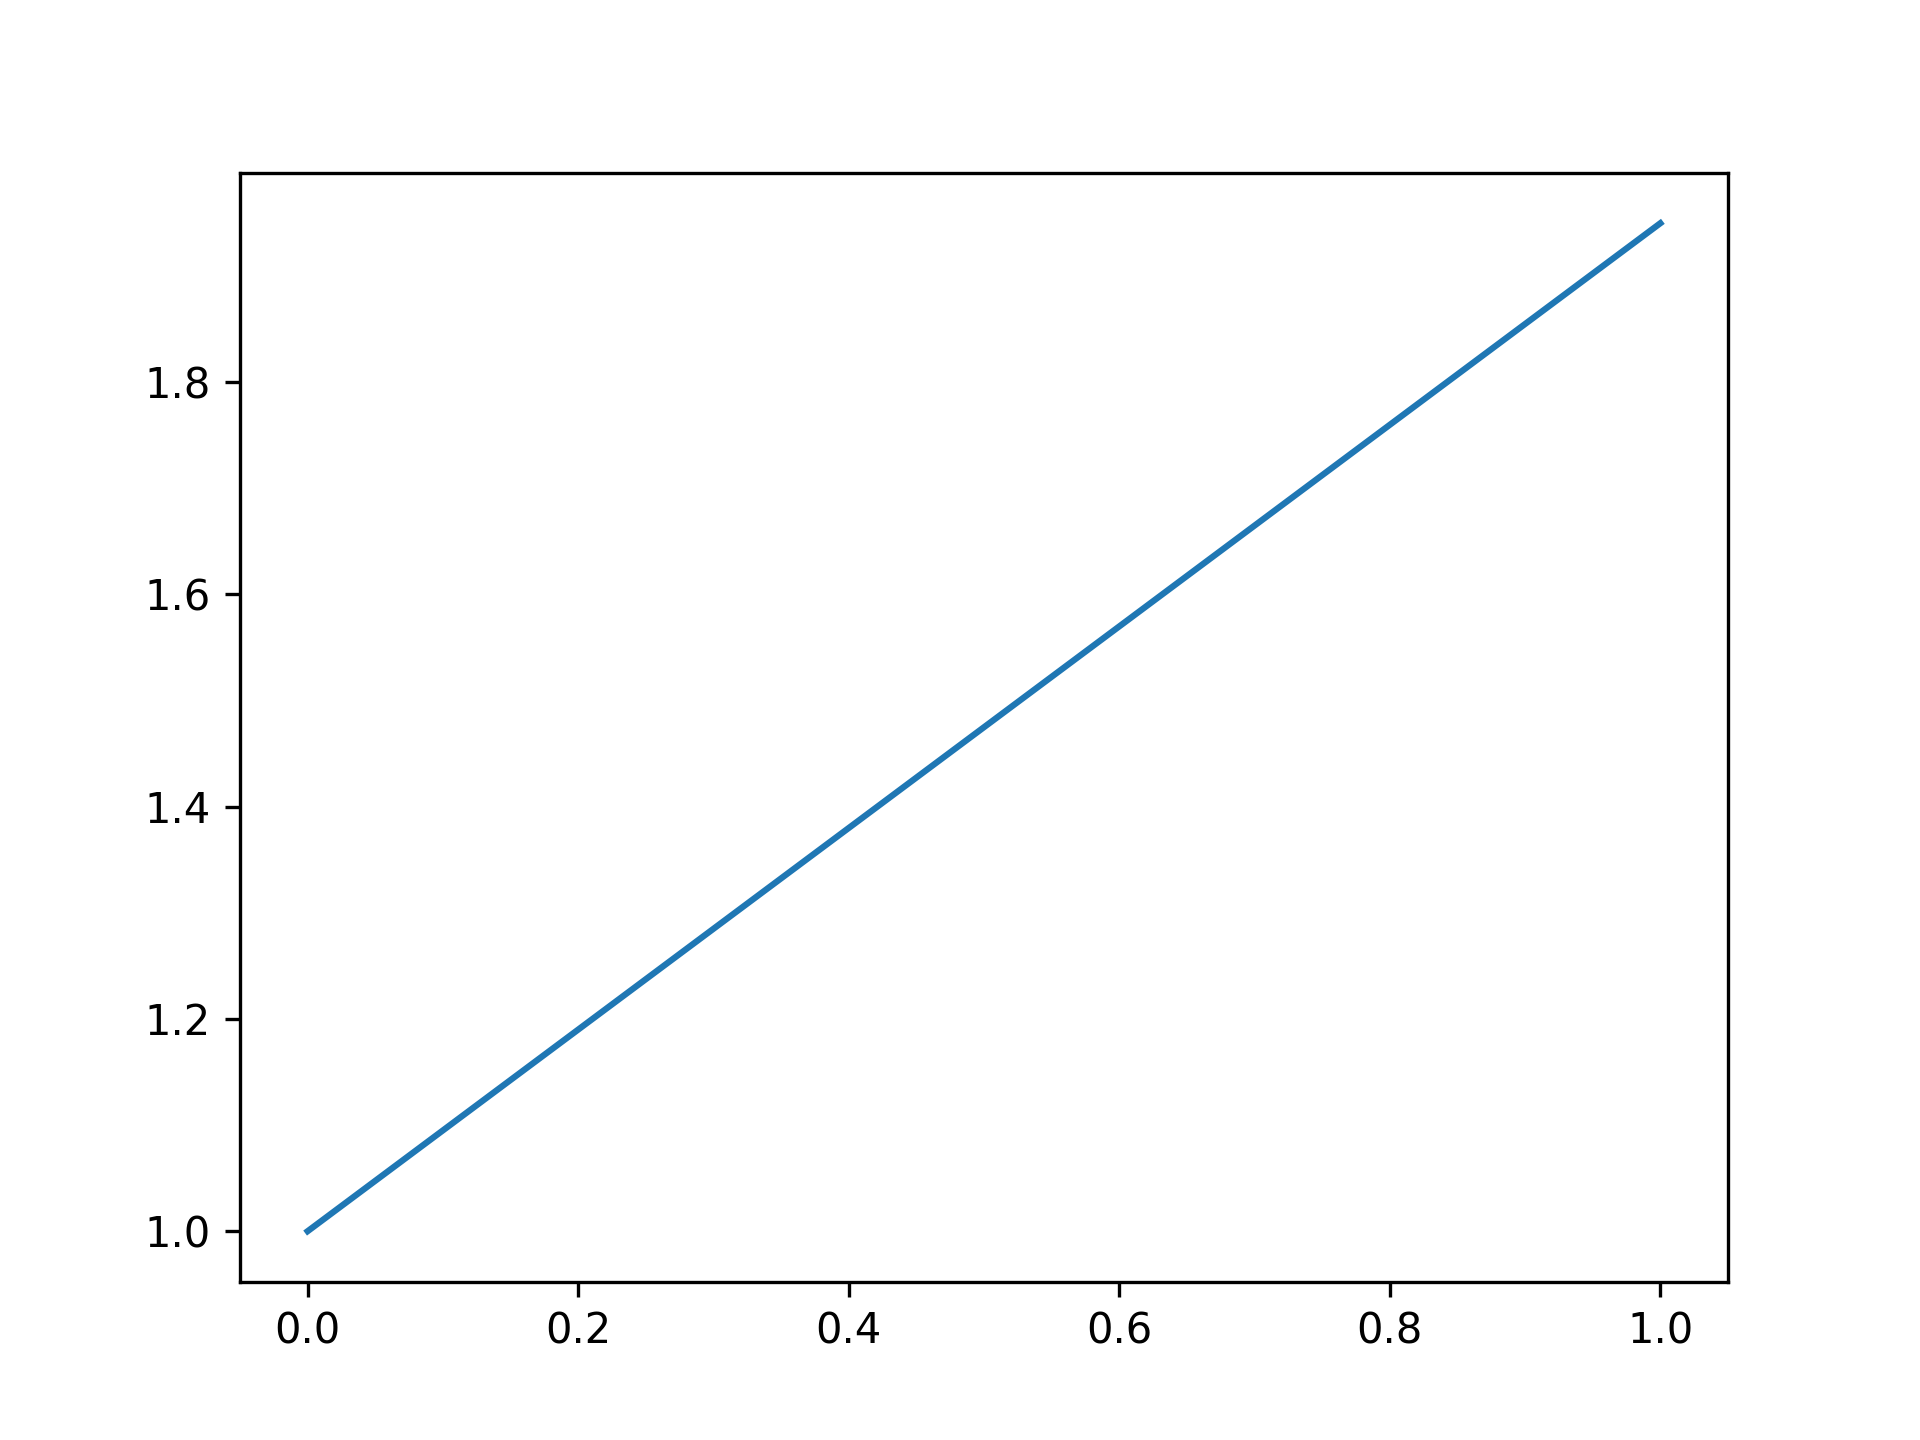
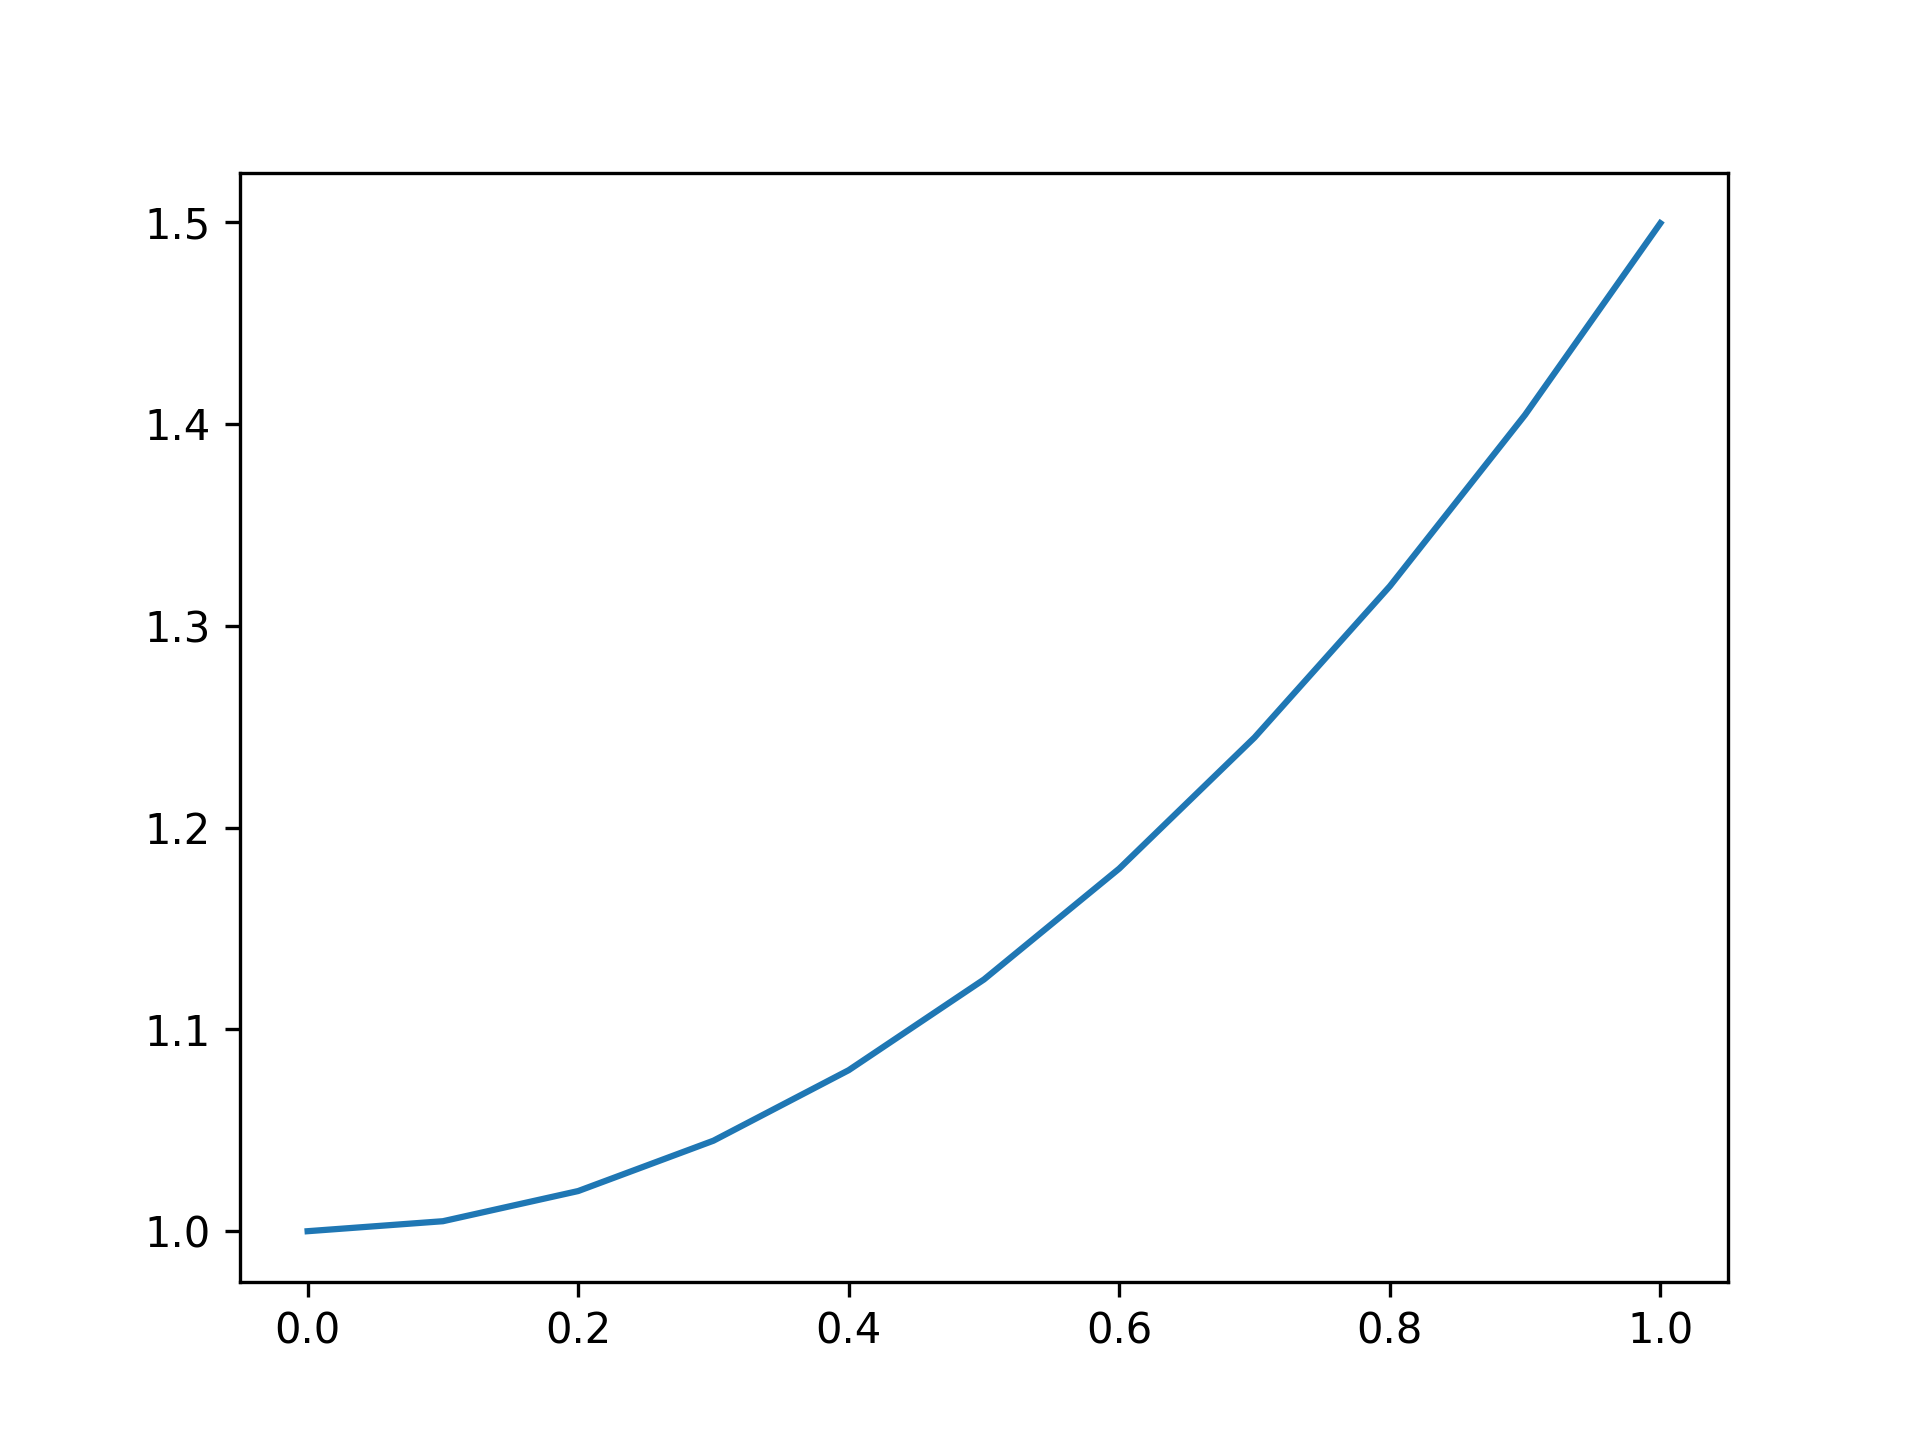
Jaxification

diff --git a/sde_solver.py b/sde_solver.py
@@ -1,10 +1,15 @@
+import jax
+import jax.numpy as jnp
+import matplotlib.pyplot as plt
 import numpy as np
 from jax import grad
+
 from euler import euler
-from foster_polynomial import parabolas
-import matplotlib.pyplot as plt
+from foster_polynomial import get_approx as parabola_approx
+
 
 def sde_solver(
+        key,
         drift,
         sigma,
         x0,
@@ -12,35 +17,56 @@ def sde_solver(
         delta,
         N,
         ode_int,
-        key,
         batch_size=None,
 ):
     init = x0
-    polys = bm(delta, N, key=key)
-    polynomial_vector_fields = np.array([lambda x, t: \
-        drift(x, t+delta*k) + sigma(x, t+delta*k) * grad(polys[k])(t) for k in range(N)]) #pb lazy evaluation?
-    solution = np.zeros(shape=(N+1,))
-    solution[0] = init
-    for k in range(1, N+1):
-        solution[k] = ode_int(key=key, init=init, vector_field=polynomial_vector_fields[k-1], T=delta)
-        init = solution[k]
-    return solution
+    get_coeffs, eval_fn = bm()
 
-def wrapped_euler(key, init, vector_field, T):
-    #10 points euler
+    def body(x, inp):
+        key_k, t_k = inp
+        bm_key, sample_key = jax.random.split(key_k, 2)
+        coeffs_k = get_coeffs(bm_key, delta)
+        func = lambda t: eval_fn(t, delta, *coeffs_k)
+        vector_field = lambda z, t: drift(z, t + t_k) + sigma(z, t + t_k) * grad(func)(t)
+        next_x = ode_int(sample_key, init=x, vector_field=vector_field, T=delta)
+        return next_x, next_x
+
+    keys = jax.random.split(key, N)
+    ts = jnp.linspace(0, N * delta, N + 1)
+
+    inps = keys, ts[:-1]
+    _, samples = jax.lax.scan(body, init, inps)
+    samples = jnp.insert(samples, 0, init, axis=0)
+
+    return ts, samples
+
+
+def wrapped_euler(_key, init, vector_field, T):
+    # 10 points euler
     N = 100
-    return euler(init=init, vector_field=vector_field, h=T/N, N=N)[-1]
+    return euler(init=init, vector_field=vector_field, h=T / N, N=N)
 
-def parabola_sde_solver_euler(drift, sigma, x0, delta, N, key):
-    return sde_solver(drift=drift, sigma=sigma, x0=x0, bm=parabolas, delta=delta, N=N, ode_int=wrapped_euler, key=key)
 
-drift = lambda x, t: t
-sigma = lambda x, t: 0.0
+def parabola_sde_solver_euler(key, drift, sigma, x0, delta, N):
+    return sde_solver(key=key, drift=drift, sigma=sigma, x0=x0, bm=parabola_approx, delta=delta, N=N, ode_int=wrapped_euler)
+
+
+
+drift = lambda x, t: 0
+sigma = lambda x, t: 1
 delta = 0.1
 x0 = 1.0
-N = 10
-key = 1337
-sol=parabola_sde_solver_euler(drift, sigma, x0, delta, N, key)
-print(sol)
-plt.plot(np.linspace(0, delta*N, N+1), sol)
-plt.savefig("out.png", dpi=300)
+N = 100
+
+JAX_KEY = jax.random.PRNGKey(1337)
+
+@jax.vmap
+def wrapped_parabola(key_op):
+    return parabola_sde_solver_euler(key_op, drift, sigma, x0, delta, N)
+
+keys = jax.random.split(JAX_KEY, 1_000_000)
+
+linspaces, sols = wrapped_parabola(keys)
+# print(sol)
+plt.plot(linspaces[0], sols[::10_000].T)
+plt.show()

diff --git a/setup.py b/setup.py
@@ -1,0 +1,35 @@
+import sys
+
+import setuptools
+
+# READ README.md for long description on PyPi.
+try:
+    long_description = open("README.md", encoding="utf-8").read()
+except Exception as e:
+    sys.stderr.write(f"Failed to read README.md:\n  {e}\n")
+    sys.stderr.flush()
+    long_description = ""
+
+setuptools.setup(
+    name="bayesian_sde_solver",
+    author="Yvann Le Fay",
+    description="Bayesian SDE solver",
+    long_description=long_description,
+    version="0.1",
+    packages=setuptools.find_packages(),
+    install_requires=[
+        "chex>=0.1.5",
+        "jax>=0.3.25",
+        "jaxlib>=0.3.25",
+        "matplotlib>=3.6.3"
+        "pytest",
+        "statsmodels>=0.13.5",
+        "tensorflow_probability>=0.19.0",
+        "tqdm>=4.64.1",
+
+    ],
+    long_description_content_type="text/markdown",
+    keywords="probabilistic state space bayesian statistics sampling algorithms sde",
+    license="MIT",
+    license_files=("LICENSE",),
+)

diff --git a/foster_polynomial.py b/foster_polynomial.py
@@ -1,11 +1,20 @@
-import jax.random
-import numpy as np
+import math
 
-def parabolas(dt, N, key):
-    key = jax.random.PRNGKey(key)
-    key, *subkeys = jax.random.split(key, 3)
-    coeffs = np.sqrt(dt) * np.array([jax.random.normal(key=subkeys[0], shape=(N+1, )), 1/np.sqrt(2)*jax.random.normal(key=subkeys[1], shape=(N+1, ))]) #increments and H_{tk,tk+1}
-    e0 = lambda t: t
-    e1 = lambda t: np.sqrt(6)*t*(t-1)
-    return [lambda t: e0(t/dt)*coeffs[0][i] + e1(t/dt)*coeffs[1][i] for i in range(N)]
+import jax
+import jax.numpy as jnp
 
+
+def get_approx():
+    def parabolas(key, dt):
+        eps_0, eps_1 = jax.random.normal(key, shape=(2,))
+
+        eps_0 *= jnp.sqrt(dt)
+        eps_1 *= jnp.sqrt(0.5 * dt)
+
+        return eps_0, eps_1
+
+    def eval_parabola(t, dt, a, b):
+        u = t / dt
+        return a * u + b * math.sqrt(6) * u * (u - 1)
+
+    return parabolas, eval_parabola

diff --git a/euler.py b/euler.py
@@ -1,10 +1,13 @@
 import numpy as np
+import jax
+
 
 def euler(init, vector_field, h, N):
-    y = np.zeros([N+1])
-    print(vector_field(1., 0.))
-    y[0] = init
-    for k in range(1, N+1):
-        y[k] = y[k-1] + h*vector_field(y[k-1], (k-1)*h)
-        print(y[k])
+
+    def body(x, t):
+        out = x + h * vector_field(x, t)
+        return out, None
+
+    inps = np.linspace(0, N * h - h, N)
+    y, _ = jax.lax.scan(body, init, inps)
     return y
